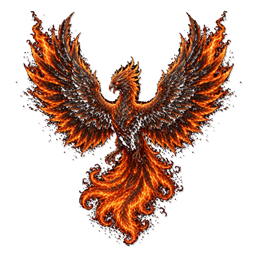
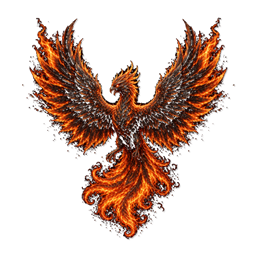
Add The Ret Pally theme with distinct Retribution iconography (v2.6.15).
Ship the Midnight Ret specialty pack (Silver Hand, Ashbringer, Templar party) using the Fire Mage freeform pipeline, and refresh Fire Mage processed icons to match.

diff --git a/tools/ProcessPreserveThemeIcons.cs b/tools/ProcessPreserveThemeIcons.cs
@@ -14,6 +14,7 @@ public static class ProcessPreserveThemeIcons
     const int SmallOutputSize = 96;
     const int WorkSize = 512;
     const float IconScale = 0.93f;
+    const float DefaultSmallSharpen = 0.42f;
     const int ContentPad = 3;
     const int AlphaCutoff = 20;
 
@@ -104,6 +105,52 @@ public static class ProcessPreserveThemeIcons
 
         var target = RenderScaled(cropped, canvasSize);
         cropped.Dispose();
+        return target;
+    }
+
+    /// <summary>
+    /// Fit freeform silhouettes to a consistent optical footprint so bar spacing
+    /// looks even. Scales to cover minFill on BOTH axes and center-crops overflow
+    /// (tall/skinny icons grow until width catches up instead of leaving gutters).
+    /// </summary>
+    static Bitmap OpticalRecenter(Bitmap source, int canvasSize, float minFill, float maxFill)
+    {
+        Rectangle bounds = FindContentBounds(source, AlphaCutoff);
+        if (bounds.Width < 2 || bounds.Height < 2)
+            return RenderScaled(source, canvasSize);
+
+        // Cover: both axes reach at least minFill (overflow is clipped by the canvas).
+        float scale = Math.Max(
+            (canvasSize * minFill) / bounds.Width,
+            (canvasSize * minFill) / bounds.Height);
+
+        // Only shrink if BOTH axes would exceed maxFill (keeps skinny icons from
+        // collapsing back to a narrow footprint).
+        float scaledW = bounds.Width * scale;
+        float scaledH = bounds.Height * scale;
+        if (scaledW > canvasSize * maxFill && scaledH > canvasSize * maxFill)
+        {
+            scale = Math.Min(
+                (canvasSize * maxFill) / bounds.Width,
+                (canvasSize * maxFill) / bounds.Height);
+            scaledW = bounds.Width * scale;
+            scaledH = bounds.Height * scale;
+        }
+
+        var target = new Bitmap(canvasSize, canvasSize, PixelFormat.Format32bppArgb);
+        using (var g = Graphics.FromImage(target))
+        {
+            g.Clear(Color.Transparent);
+            g.InterpolationMode = InterpolationMode.HighQualityBicubic;
+            g.SmoothingMode = SmoothingMode.HighQuality;
+            g.PixelOffsetMode = PixelOffsetMode.HighQuality;
+            g.CompositingQuality = CompositingQuality.HighQuality;
+            g.DrawImage(
+                source,
+                new RectangleF((canvasSize - scaledW) / 2f, (canvasSize - scaledH) / 2f, scaledW, scaledH),
+                bounds,
+                GraphicsUnit.Pixel);
+        }
         return target;
     }
 
@@ -215,22 +262,101 @@ public static class ProcessPreserveThemeIcons
         return output;
     }
 
-    static void ProcessBoth(Bitmap source, int shadowR, int shadowG, int shadowB, out Bitmap full, out Bitmap small)
+    /// <summary>
+    /// Slightly dilate opaque coverage so thin freeform strokes (blades, shafts, filigree)
+    /// survive aggressive downscale into the small tier.
+    /// </summary>
+    static Bitmap ThickenAlphaForSmall(Bitmap source)
+    {
+        int w = source.Width;
+        int h = source.Height;
+        var output = new Bitmap(w, h, PixelFormat.Format32bppArgb);
+        for (int y = 0; y < h; y++)
+        {
+            for (int x = 0; x < w; x++)
+            {
+                Color center = SamplePixel(source, x, y);
+                int bestA = center.A;
+                int bestR = center.R;
+                int bestG = center.G;
+                int bestB = center.B;
+                for (int dy = -1; dy <= 1; dy++)
+                {
+                    for (int dx = -1; dx <= 1; dx++)
+                    {
+                        if (dx == 0 && dy == 0) continue;
+                        Color n = SamplePixel(source, x + dx, y + dy);
+                        if (n.A > bestA)
+                        {
+                            bestA = n.A;
+                            bestR = n.R;
+                            bestG = n.G;
+                            bestB = n.B;
+                        }
+                    }
+                }
+
+                if (center.A >= AlphaCutoff)
+                    output.SetPixel(x, y, center);
+                else if (bestA >= AlphaCutoff)
+                    output.SetPixel(x, y, Color.FromArgb(ClampByte((int)Math.Round(bestA * 0.85)), bestR, bestG, bestB));
+                else
+                    output.SetPixel(x, y, Color.FromArgb(0, 0, 0, 0));
+            }
+        }
+        return output;
+    }
+
+    static void ProcessBoth(
+        Bitmap source,
+        int shadowR,
+        int shadowG,
+        int shadowB,
+        out Bitmap full,
+        out Bitmap small,
+        int smallOutputSize = SmallOutputSize,
+        float smallSharpen = DefaultSmallSharpen,
+        bool thickenSmall = false,
+        bool opticalNormalize = false)
     {
         using (var working = RenderScaled(source, WorkSize))
         {
             KeyBackground(working);
-            using (var cropped = TightCropRecenter(working, WorkSize))
+            using (var cropped = opticalNormalize
+                ? OpticalRecenter(working, WorkSize, 0.84f, 0.96f)
+                : TightCropRecenter(working, WorkSize))
             using (var withShadow = AddContactShadow(cropped, shadowR, shadowG, shadowB))
             {
                 full = DownscaleBitmap(withShadow, OutputSize);
-                using (var smallBase = DownscaleBitmap(withShadow, SmallOutputSize))
-                    small = SharpenForSmallDisplay(smallBase, 0.42f);
+
+                Bitmap smallSource = withShadow;
+                Bitmap thickened = null;
+                if (thickenSmall)
+                {
+                    thickened = ThickenAlphaForSmall(withShadow);
+                    smallSource = thickened;
+                }
+
+                using (var smallBase = DownscaleBitmap(smallSource, smallOutputSize))
+                    small = SharpenForSmallDisplay(smallBase, smallSharpen);
+
+                if (thickened != null)
+                    thickened.Dispose();
             }
         }
     }
 
-    public static void ProcessTheme(string prefix, string inputDir, string outputDir, int shadowR, int shadowG, int shadowB)
+    public static void ProcessTheme(
+        string prefix,
+        string inputDir,
+        string outputDir,
+        int shadowR,
+        int shadowG,
+        int shadowB,
+        int smallOutputSize = SmallOutputSize,
+        float smallSharpen = DefaultSmallSharpen,
+        bool thickenSmall = false,
+        bool opticalNormalize = false)
     {
         Directory.CreateDirectory(outputDir);
         string smallDir = Path.Combine(outputDir, "small");
@@ -244,7 +370,7 @@ public static class ProcessPreserveThemeIcons
             {
                 Bitmap full;
                 Bitmap small;
-                ProcessBoth(src, shadowR, shadowG, shadowB, out full, out small);
+                ProcessBoth(src, shadowR, shadowG, shadowB, out full, out small, smallOutputSize, smallSharpen, thickenSmall, opticalNormalize);
                 using (full)
                 using (small)
                 {
@@ -256,6 +382,61 @@ public static class ProcessPreserveThemeIcons
         }
     }
 
+    /// <summary>
+    /// Lift dark midtones so charcoal metal/stone detail reads at bar size, without
+    /// blowing out already-bright ember/glow pixels.
+    /// </summary>
+    public static Bitmap LiftDarkDetails(Bitmap source, float lift = 1.32f)
+    {
+        int w = source.Width;
+        int h = source.Height;
+        var output = new Bitmap(w, h, PixelFormat.Format32bppArgb);
+        for (int y = 0; y < h; y++)
+        {
+            for (int x = 0; x < w; x++)
+            {
+                Color c = source.GetPixel(x, y);
+                if (c.A <= AlphaCutoff)
+                {
+                    output.SetPixel(x, y, Color.FromArgb(0, 0, 0, 0));
+                    continue;
+                }
+
+                float peak = Math.Max(c.R, Math.Max(c.G, c.B)) / 255f;
+                // Full lift in deep shadows; ease off as pixels approach glow range.
+                float protect = peak <= 0.42f ? 0f : Math.Min(1f, (peak - 0.42f) / 0.40f);
+                float factor = lift * (1f - protect) + 1f * protect;
+
+                // Extra gentle floor so near-black charcoal separates from the void bg.
+                float floorBoost = peak < 0.18f ? (0.18f - peak) * 0.55f : 0f;
+
+                byte r = ClampByte((int)Math.Round(c.R * factor + floorBoost * 255f));
+                byte g = ClampByte((int)Math.Round(c.G * factor + floorBoost * 220f));
+                byte b = ClampByte((int)Math.Round(c.B * factor + floorBoost * 180f));
+                output.SetPixel(x, y, Color.FromArgb(c.A, r, g, b));
+            }
+        }
+        return output;
+    }
+
+    public static void LiftIconFile(string path, float lift = 1.32f)
+    {
+        if (!File.Exists(path))
+            return;
+
+        string tempPath = path + ".lift.tmp.png";
+        using (var src = new Bitmap(path))
+        using (var lifted = LiftDarkDetails(src, lift))
+        {
+            if (File.Exists(tempPath))
+                File.Delete(tempPath);
+            lifted.Save(tempPath, ImageFormat.Png);
+        }
+        File.Delete(path);
+        File.Move(tempPath, path);
+        Console.WriteLine("Lifted dark detail: " + path);
+    }
+
     public static void ProcessAllClassThemes(string themesRoot)
     {
         ProcessTheme("TheWarrior", Path.Combine(themesRoot, "TheWarrior", "source"), Path.Combine(themesRoot, "TheWarrior"), 18, 12, 8);
@@ -264,7 +445,10 @@ public static class ProcessPreserveThemeIcons
         ProcessTheme("ThePriest", Path.Combine(themesRoot, "ThePriest", "source"), Path.Combine(themesRoot, "ThePriest"), 20, 18, 28);
         ProcessTheme("TheShaman", Path.Combine(themesRoot, "TheShaman", "source"), Path.Combine(themesRoot, "TheShaman"), 8, 14, 24);
         ProcessTheme("TheMage", Path.Combine(themesRoot, "TheMage", "source"), Path.Combine(themesRoot, "TheMage"), 10, 16, 28);
-        ProcessTheme("TheFireMage", Path.Combine(themesRoot, "TheFireMage", "source"), Path.Combine(themesRoot, "TheFireMage"), 22, 10, 6);
+        // Freeform Fire Mage: stronger small tier + optical fill so skinny icons don't leave uneven gaps.
+        ProcessTheme("TheFireMage", Path.Combine(themesRoot, "TheFireMage", "source"), Path.Combine(themesRoot, "TheFireMage"), 22, 10, 6, 128, 0.68f, true, true);
+        // Freeform Ret Pally: same pipeline as Fire Mage (holy gold / silver plate silhouettes).
+        ProcessTheme("TheRetPally", Path.Combine(themesRoot, "TheRetPally", "source"), Path.Combine(themesRoot, "TheRetPally"), 22, 10, 6, 128, 0.68f, true, true);
         ProcessTheme("TheWarlock", Path.Combine(themesRoot, "TheWarlock", "source"), Path.Combine(themesRoot, "TheWarlock"), 16, 8, 24);
         ProcessTheme("TheMonk", Path.Combine(themesRoot, "TheMonk", "source"), Path.Combine(themesRoot, "TheMonk"), 10, 20, 14);
         ProcessTheme("TheDruid", Path.Combine(themesRoot, "TheDruid", "source"), Path.Combine(themesRoot, "TheDruid"), 20, 14, 8);

diff --git a/tools/ProcessTheFireMage.cs b/tools/ProcessTheFireMage.cs
@@ -3,14 +3,36 @@ using System.IO;
 
 class ProcessTheFireMage
 {
+    static readonly string[] DarkIcons =
+    {
+        "Character",   // #1 hood — charcoal armor loses detail at bar size
+        "Housing",     // #5 house — stone body too close to void bg
+        "Professions", // #9 anvil — hammer/anvil silhouette muddies in shadow
+    };
+
     static int Main(string[] args)
     {
         string root = args.Length > 0 ? args[0] : ".";
         string themes = Path.Combine(root, "Media", "Themes");
         string src = Path.Combine(themes, "TheFireMage", "source");
         string dest = Path.Combine(themes, "TheFireMage");
-        ProcessPreserveThemeIcons.ProcessTheme("TheFireMage", src, dest, 22, 10, 6);
-        Console.WriteLine("TheFireMage done.");
+        string smallDir = Path.Combine(dest, "small");
+
+        // Freeform silhouettes: stronger small tier + optical fill normalization for even bar spacing.
+        ProcessPreserveThemeIcons.ProcessTheme("TheFireMage", src, dest, 22, 10, 6, 128, 0.68f, true, true);
+
+        foreach (string name in DarkIcons)
+        {
+            // Charcoal bodies: strong lift, then a gentle finishing nudge (don't wash out).
+            ProcessPreserveThemeIcons.LiftIconFile(Path.Combine(dest, name + ".png"), 1.34f);
+            ProcessPreserveThemeIcons.LiftIconFile(Path.Combine(dest, name + ".png"), 1.22f);
+            ProcessPreserveThemeIcons.LiftIconFile(Path.Combine(dest, name + ".png"), 1.10f);
+            ProcessPreserveThemeIcons.LiftIconFile(Path.Combine(smallDir, name + ".png"), 1.38f);
+            ProcessPreserveThemeIcons.LiftIconFile(Path.Combine(smallDir, name + ".png"), 1.26f);
+            ProcessPreserveThemeIcons.LiftIconFile(Path.Combine(smallDir, name + ".png"), 1.12f);
+        }
+
+        Console.WriteLine("TheFireMage done (optical fill + dark-icon lift on Character/Housing/Professions).");
         return 0;
     }
 }

diff --git a/tools/ProcessTheRetPally.cs b/tools/ProcessTheRetPally.cs
@@ -1,0 +1,38 @@
+using System;
+using System.IO;
+
+class ProcessTheRetPally
+{
+    // Silver/ash plate silhouettes that can muddy against void at bar size.
+    static readonly string[] DarkIcons =
+    {
+        "Character",
+        "Housing",
+        "Professions",
+    };
+
+    static int Main(string[] args)
+    {
+        string root = args.Length > 0 ? args[0] : ".";
+        string themes = Path.Combine(root, "Media", "Themes");
+        string src = Path.Combine(themes, "TheRetPally", "source");
+        string dest = Path.Combine(themes, "TheRetPally");
+        string smallDir = Path.Combine(dest, "small");
+
+        // Same freeform pipeline as The Fire Mage: optical fill + strong small tier.
+        ProcessPreserveThemeIcons.ProcessTheme("TheRetPally", src, dest, 22, 10, 6, 128, 0.68f, true, true);
+
+        foreach (string name in DarkIcons)
+        {
+            ProcessPreserveThemeIcons.LiftIconFile(Path.Combine(dest, name + ".png"), 1.34f);
+            ProcessPreserveThemeIcons.LiftIconFile(Path.Combine(dest, name + ".png"), 1.22f);
+            ProcessPreserveThemeIcons.LiftIconFile(Path.Combine(dest, name + ".png"), 1.10f);
+            ProcessPreserveThemeIcons.LiftIconFile(Path.Combine(smallDir, name + ".png"), 1.38f);
+            ProcessPreserveThemeIcons.LiftIconFile(Path.Combine(smallDir, name + ".png"), 1.26f);
+            ProcessPreserveThemeIcons.LiftIconFile(Path.Combine(smallDir, name + ".png"), 1.12f);
+        }
+
+        Console.WriteLine("TheRetPally done (optical fill + dark-icon lift on Character/Housing/Professions).");
+        return 0;
+    }
+}

diff --git a/README.md b/README.md
@@ -8,7 +8,7 @@ A compact custom micro menu bar for World of Warcraft retail, with multiple icon
 - Optional clock above the bar
 - Hide Blizzard's default micro menu
 - **Edit Mode:** drag the bar in WoW's native Edit Mode (`/editmode`) — no extra addons required
-- Icon themes: The Paladin, The Illidari, and **all 13 retail classes** (Warrior, Hunter, Rogue, Priest, Shaman, Mage, Warlock, Monk, Druid, Death Knight, Evoker). Class themes are selected automatically by default.
+- Icon themes: The Paladin, **The Ret Pally**, The Illidari, **The Fire Mage**, and **all 13 retail classes** (Warrior, Hunter, Rogue, Priest, Shaman, Mage, Warlock, Monk, Druid, Death Knight, Evoker). Class themes are selected automatically by default; Ret Pally / Fire Mage are specialty packs you pick manually.
 
 ## Installation
 

diff --git a/CHANGELOG.md b/CHANGELOG.md
@@ -2,6 +2,16 @@
 
 All notable changes to BurntWaffleBar are documented here.
 
+## [2.6.15] - 2026-07-31
+
+### Changed
+- **The Ret Pally** — redesigned freeform icons to distinct Ret identity (Silver Hand fist, Ashbringer swords, Templar party, clasped gauntlets, libram, cathedral, winged Wrath helm); removed Fire Mage silhouette clones (phoenix / flame spirits / magma motifs)
+
+## [2.6.14] - 2026-07-31
+
+### Added
+- **The Ret Pally** icon theme — Midnight Retribution Paladin pack (silver plate, holy gold, Wake of Ashes charcoal, Light Within radiance); freeform silhouettes matching The Fire Mage quality; selectable beside The Paladin
+
 ## [2.6.13] - 2026-07-31
 
 ### Fixed
